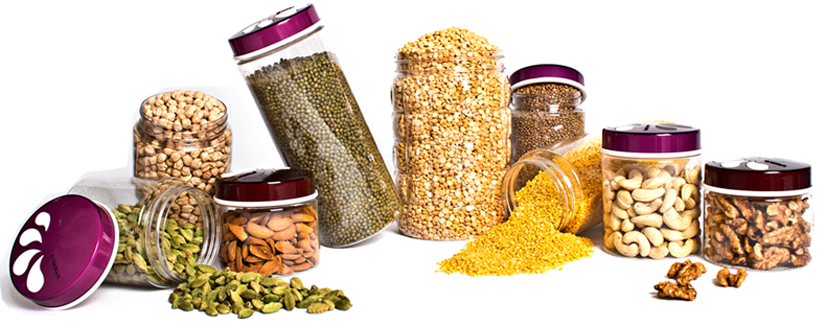
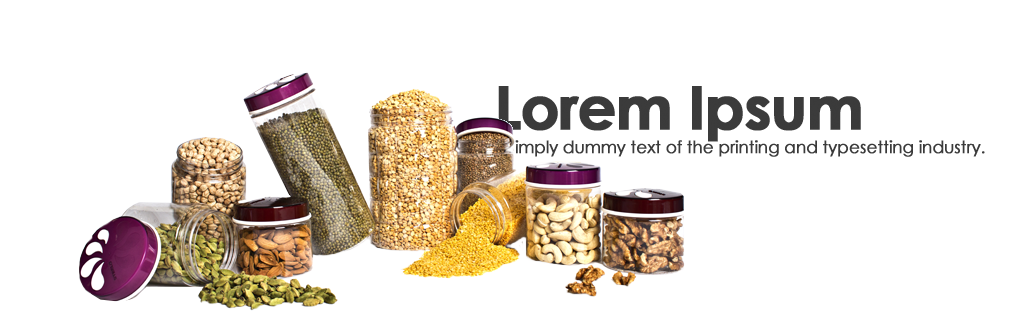
added changes

diff --git a/index.html b/index.html
@@ -101,20 +101,9 @@
 
     <header id="home">
         <!-- container -->
-        <div class="">
             <div class="row">
                 <div class="carousel fade-carousel slide" data-ride="carousel" data-interval="4000" id="bs-carousel">
-                      <!-- Overlay -->
-                      <!-- <div class="overlay"></div> -->
-
-                      <!-- Indicators -->
-                 <!--      <ol class="carousel-indicators">
-                        <li data-target="#bs-carousel" data-slide-to="0" class="active"></li>
-                        <li data-target="#bs-carousel" data-slide-to="1"></li>
-                        <li data-target="#bs-carousel" data-slide-to="2"></li>
-                      </ol> -->
                       
-                      <!-- Wrapper for slides -->
                       <div class="carousel-inner">
                         <div class="item slides active">
                           <div class="slide-1"></div>
@@ -136,37 +125,43 @@
                             <!-- <button class="btn btn-hero btn-lg" role="button">See all features</button> -->
                           </div>
                         </div>
+
+                        <div class="item slides">
+                          <div class="slide-3"></div>
+                          <div class="hero">        
+                            <hgroup>
+                               <!--  <h1>Lorem Ipsum</h1>        
+                                <h3>Lorem Ipsum is simply dummy text of the printing and typesetting industry. </h3> -->
+                            </hgroup>     
+                            <!-- <button class="btn btn-hero btn-lg" role="button">See all features</button> -->
+                          </div>
+                        </div>
+
+                        <div class="item slides">
+                          <div class="slide-4"></div>
+                          <div class="hero">        
+                            <hgroup>
+                               <!--  <h1>Lorem Ipsum</h1>        
+                                <h3>Lorem Ipsum is simply dummy text of the printing and typesetting industry. </h3> -->
+                            </hgroup>     
+                            <!-- <button class="btn btn-hero btn-lg" role="button">See all features</button> -->
+                          </div>
+                        </div>
+
+<!--                         <div class="item slides">
+                          <div class="slide-4"></div>
+                          <div class="hero">        
+                            <hgroup>
+                            </hgroup>     
+                          </div>
+                        </div> -->
                 
                       </div> 
                         <a class="page-scroll" href="#products">
                             <img class="scrolldown floating" src="img/scrolldown.png">
                         </a>
                     </div>
-                <!-- <div class="col-sm-7">
-                    <div class="header-content">
-                        <div class="header-content-inner">
-                            <h1>New Age is an app landing page that will help you beautifully showcase your new mobile app, or anything else!</h1>
-                            <a href="#download" class="btn btn-outline btn-xl page-scroll">Start Now for Free!</a>
-                        </div>
-                    </div>
-                </div>
-                <div class="col-sm-5">
-                    <div class="device-container">
-                        <div class="device-mockup iphone6_plus portrait white">
-                            <div class="device">
-                                <div class="screen">
-                                    <img src="img/demo-screen-1.jpg" class="img-responsive" alt="">
-                                </div>
-                                <div class="button">
-                                </div>
-                            </div>
-                        </div>
-                    </div>
-                </div> -->
-
-
             </div>
-        </div>
     </header>
 
     <section id="beginning" class="download bg-primary text-center">
@@ -194,7 +189,7 @@
                 </div>
                 <br>
 
-                <div class="col-md-6 left" style="position: relative;">
+                <div class="col-md-6 left beggning-pad" style="position: relative;">
                     <p>STEELO  has been established as a manufacturing company in India. Our traditional business model is based on the accomplishment of PET (Poly Ethylene Threpthalate) containers and Bottles.  Our Directors having an experience of 20 plus years in this field In 2007 we have started our new brand Steelo™ and marketing </p>
                     <p>throughout India. After launching this product within 3 months we</p>
                     <p>have created a brand in the market available throughout India 
@@ -435,7 +430,7 @@
                  <div class="accordion" id="accordion2">
                    <div class="accordion-group">
                       <div class="accordion-heading">
-                         <a class="accordion-toggle" data-toggle="collapse" data-parent="#accordion2" href="#collapseOne">
+                         <a class="accordion-toggle white" data-toggle="collapse" data-parent="#accordion2" href="#collapseOne">
                          <b>Category 1</b>
                          </a>
                       </div>
@@ -450,7 +445,7 @@
                    </div>
                    <div class="accordion-group">
                       <div class="accordion-heading">
-                         <a class="accordion-toggle" data-toggle="collapse" data-parent="#accordion2" href="#collapseTwo">
+                         <a class="accordion-toggle white" data-toggle="collapse" data-parent="#accordion2" href="#collapseTwo">
                          <b>Category 2</b>
                          </a>
                       </div>
@@ -465,7 +460,7 @@
                    </div>
                     <div class="accordion-group">
                       <div class="accordion-heading">
-                         <a class="accordion-toggle" data-toggle="collapse" data-parent="#accordion3" href="#collapseThree">
+                         <a class="accordion-toggle white" data-toggle="collapse" data-parent="#accordion3" href="#collapseThree">
                          <b>Category 2</b>
                          </a>
                       </div>
@@ -480,7 +475,7 @@
                    </div>
                     <div class="accordion-group">
                       <div class="accordion-heading">
-                         <a class="accordion-toggle" data-toggle="collapse" data-parent="#accordion4" href="#collapseFour">
+                         <a class="accordion-toggle white" data-toggle="collapse" data-parent="#accordion4" href="#collapseFour">
                          <b>Category 2</b>
                          </a>
                       </div>
@@ -495,7 +490,7 @@
                    </div>
                     <div class="accordion-group">
                       <div class="accordion-heading">
-                         <a class="accordion-toggle" data-toggle="collapse" data-parent="#accordion5" href="#collapseFive">
+                         <a class="accordion-toggle white" data-toggle="collapse" data-parent="#accordion5" href="#collapseFive">
                          <b>Category 2</b>
                          </a>
                       </div>

diff --git a/css/style.css b/css/style.css
@@ -137,24 +137,34 @@ Image credits: unsplash.com
 /********************************/
 .fade-carousel .slides .slide-1, 
 .fade-carousel .slides .slide-2,
-.fade-carousel .slides .slide-3 {
+.fade-carousel .slides .slide-3,
+.fade-carousel .slides .slide-4 {
   height: 100vh;
   background-size: cover;
   background-position: center center;
   background-repeat: no-repeat;
 }
+
 .fade-carousel .slides .slide-1 {
-  background-image: url(../img/bg1.png); 
-  background-size: 70%;
-  background-position: left;
-      margin-left: 10%;
+  background: url(../img/bg1.png) no-repeat center center; 
 }
+
+
 .fade-carousel .slides .slide-2 {
-  background-image: url(../img/bg2.png);
-  background-size: 30%;
-  background-position: left;
-      margin-left: 10%;
+  background: url(../img/bg2.png) no-repeat center center;
 }
+
+.fade-carousel .slides .slide-3 {
+  background: url(../img/bg3.png) no-repeat center center;
+}
+
+.fade-carousel .slides .slide-4 {
+  background: url(../img/bg4.png) no-repeat center center;
+}
+
+/*.fade-carousel .slides .slide-4 {
+  background: url(../img/bg4.png) no-repeat center center;
+}*/
 /*.fade-carousel .slides .slide-3 {
   background-image: url(../img/bg1.png);
   background-size: 70%;
@@ -682,17 +692,18 @@ section {
 
 .accordion-heading{
 
-    background-color: rgba(0, 0, 0, 0.05);
+    background-color: rgb(0, 170, 242);
     padding: 10px;
     margin-bottom: 10px;
     font-size: 15px;
     font-weight: 900;
+        border-bottom: 5px solid black;
 }
 
 
 a:focus, a:hover {
 
-    color: #00aff3;
+    color: white;
     text-decoration: none;
 }
 
@@ -751,10 +762,34 @@ a{
     content: "\f054";    
 }
 
+.row .col-md-3{
+    /*border:1px solid black;*/
+}
 
 
+@media (max-width: 768px) {
 
-@media (max-width: 768px) { 
+     .beginning-hover-img{
+
+        padding: 5%;
+     }
+
+    p{
+        font-size:12px;
+    }
+
+.beggning-pad{
+
+    padding-left: 17%;
+} 
+
+    section.download h2 {
+    margin-left: 15%;
+}
+
+.half-dash {
+   margin-left: 15%;
+}
 
     .pad-100 {
     padding: 0 20px;
